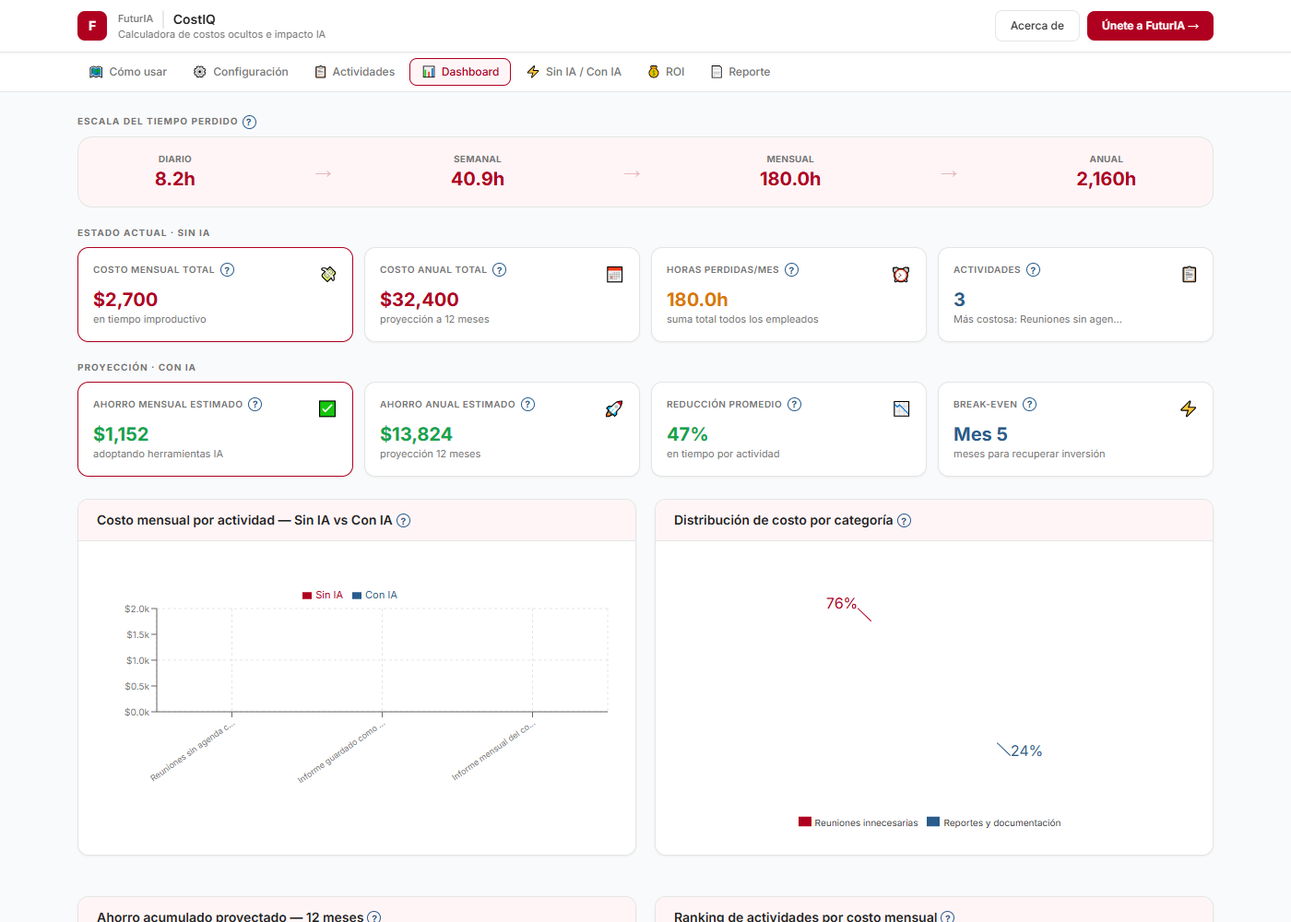
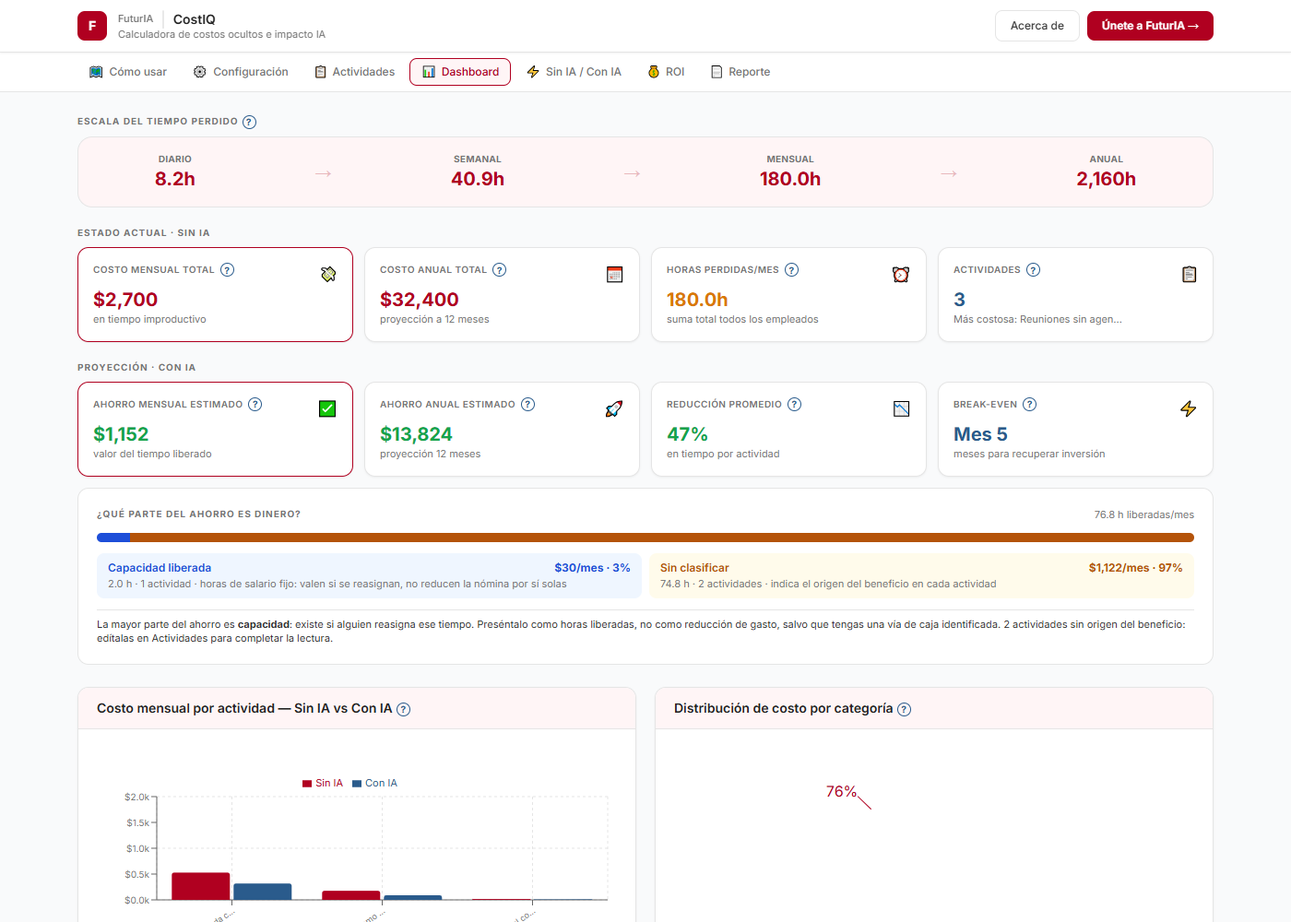
feat: separar capacidad liberada de ahorro con vía de caja
Cada actividad declara de dónde saldría el beneficio (salario fijo, horas extras,
servicio externo, contratación evitada, ventas, solo calidad) y la app clasifica
la vista: Capacidad / Caja / No monetizado. Mismo criterio que la hoja de línea
base del Módulo 2.

- Desglose '¿Qué parte del ahorro es dinero?' en Dashboard, Sin IA/Con IA y Reporte (Word)
- Conclusión ejecutiva dice cuánto es capacidad y cuánto caja; deja de hablar de
  'está perdiendo' y 'baja productividad'
- Columna Vista en la tabla, editable; CSV exporta origen, vista y horas liberadas
- Datos de ejemplo con frecuencia real y mezcla de orígenes
- Migración: actividades sin origen quedan 'Sin clasificar' con aviso
- scripts/qa-v31.mjs: desglose, conclusión y reclasificación verificados en navegador

diff --git a/src/App.jsx b/src/App.jsx
@@ -42,12 +42,14 @@ const CURRENCIES = [
 ];
 
 const SAMPLE_ACTIVITIES = [
-  { id:'s1', name:'Reuniones sin agenda clara',       category:'Reuniones innecesarias',         minutesPerDay:45, affectedEmployees:8,  automationPotential:'Medio', aiTimeReduction:40, minutesWithAI:null },
-  { id:'s2', name:'Buscar archivos y documentos',     category:'Búsqueda de información',        minutesPerDay:30, affectedEmployees:12, automationPotential:'Alto',  aiTimeReduction:70, minutesWithAI:9   },
-  { id:'s3', name:'Elaborar reportes manuales',       category:'Reportes y documentación',       minutesPerDay:60, affectedEmployees:5,  automationPotential:'Alto',  aiTimeReduction:80, minutesWithAI:null },
-  { id:'s4', name:'Responder correos repetitivos',    category:'Comunicación interna',           minutesPerDay:25, affectedEmployees:15, automationPotential:'Alto',  aiTimeReduction:60, minutesWithAI:null },
-  { id:'s5', name:'Captura de datos en formularios',  category:'Entrada de datos manual',        minutesPerDay:40, affectedEmployees:6,  automationPotential:'Alto',  aiTimeReduction:85, minutesWithAI:6   },
-  { id:'s6', name:'Revisiones y aprobaciones lentas', category:'Revisiones y aprobaciones',      minutesPerDay:20, affectedEmployees:10, automationPotential:'Medio', aiTimeReduction:50, minutesWithAI:null },
+  // Ejemplos con frecuencia real y origen del beneficio: la mayoría es capacidad
+  // (salario fijo); solo el cierre mensual con horas extras es caja. Así se ve el desglose.
+  { id:'s1', name:'Reuniones sin agenda clara',       category:'Reuniones innecesarias',         minutesPerRun:45,  timesPerMonth:22, affectedEmployees:8,  automationPotential:'Medio', aiTimeReduction:40, minutesWithAI:null, benefitSource:'salary' },
+  { id:'s2', name:'Buscar archivos y documentos',     category:'Búsqueda de información',        minutesPerRun:30,  timesPerMonth:22, affectedEmployees:12, automationPotential:'Alto',  aiTimeReduction:70, minutesWithAI:9,    benefitSource:'salary' },
+  { id:'s3', name:'Informe mensual para el comité',   category:'Reportes y documentación',       minutesPerRun:240, timesPerMonth:1,  affectedEmployees:2,  automationPotential:'Alto',  aiTimeReduction:60, minutesWithAI:95,   benefitSource:'salary' },
+  { id:'s4', name:'Responder correos repetitivos',    category:'Comunicación interna',           minutesPerRun:25,  timesPerMonth:22, affectedEmployees:15, automationPotential:'Alto',  aiTimeReduction:60, minutesWithAI:null, benefitSource:'salary' },
+  { id:'s5', name:'Cierre contable con horas extras', category:'Entrada de datos manual',        minutesPerRun:480, timesPerMonth:1,  affectedEmployees:3,  automationPotential:'Alto',  aiTimeReduction:50, minutesWithAI:null, benefitSource:'overtime' },
+  { id:'s6', name:'Acta de la reunión semanal',       category:'Reportes y documentación',       minutesPerRun:90,  timesPerMonth:4,  affectedEmployees:1,  automationPotential:'Alto',  aiTimeReduction:60, minutesWithAI:35,   benefitSource:'quality' },
 ];
 
 const SAMPLE_IDS = new Set(SAMPLE_ACTIVITIES.map(s => s.id));
@@ -214,7 +216,82 @@ function migrateAct(a, cfg) {
   const minutesPerRun = Math.max(1, +(a.minutesPerRun ?? legacyMin ?? 30));
   const timesPerMonth = Math.max(1, +(a.timesPerMonth ?? cfg.workDaysMonth));
   const { minutesPerDay, ...rest } = a;
-  return { ...rest, minutesPerRun, timesPerMonth };
+  const benefitSource = BENEFIT_SOURCES.some(b => b.key === a.benefitSource) ? a.benefitSource : 'unknown';
+  return { ...rest, minutesPerRun, timesPerMonth, benefitSource };
+}
+
+// ── Origen del beneficio (v3.1) ───────────────────────────────────────────
+// Mismo criterio que la hoja «Mi línea base» del Módulo 2: el usuario dice de
+// dónde saldría el beneficio y la app clasifica la vista. Las horas de alguien
+// con salario fijo son capacidad liberada, no caja, mientras nadie las reasigne.
+const BENEFIT_SOURCES = [
+  { key: 'unknown',   label: 'Todavía no lo sé',                   view: 'unclassified', short: 'Sin clasificar' },
+  { key: 'salary',    label: 'Horas de gente con salario fijo',    view: 'capacity',     short: 'Capacidad' },
+  { key: 'overtime',  label: 'Horas extras que dejo de pagar',     view: 'cash',         short: 'Caja' },
+  { key: 'vendor',    label: 'Servicio externo que reduzco',       view: 'cash',         short: 'Caja' },
+  { key: 'hire',      label: 'Contratación que evito',             view: 'cash',         short: 'Caja (proyectada)' },
+  { key: 'sales',     label: 'Más ventas o pedidos atendidos',     view: 'cash',         short: 'Caja (margen)' },
+  { key: 'quality',   label: 'Solo mejora de calidad o plazo',     view: 'quality',      short: 'No monetizado' },
+];
+const benefitOf = key => BENEFIT_SOURCES.find(b => b.key === key) || BENEFIT_SOURCES[0];
+const VIEW_STYLE = {
+  capacity:     { bg: '#eff6ff', fg: '#1d4ed8' },
+  cash:         { bg: '#f0fdf4', fg: '#15803d' },
+  quality:      { bg: '#f5f5f5', fg: '#525252' },
+  unclassified: { bg: '#fffbeb', fg: '#b45309' },
+};
+function ViewBadge({ source }) {
+  const b = benefitOf(source); const s = VIEW_STYLE[b.view];
+  return <span className="text-[10px] font-semibold px-1.5 py-0.5 rounded-full whitespace-nowrap" style={{ background: s.bg, color: s.fg }} title={b.label}>{b.short}</span>;
+}
+
+// Desglose del ahorro: cuánto es capacidad liberada y cuánto tiene vía de caja.
+// Es la lectura honesta del "ahorro": un comité que ve $5.000/mes y luego
+// descubre que el 90 % es tiempo de gente con salario fijo deja de creer en la cifra.
+function BenefitBreakdown({ tot, cfg, compact }) {
+  const { byView, totalSavMon, totalSavHMon } = tot;
+  if (!totalSavMon) return null;
+  const pct = v => totalSavMon ? Math.round(byView[v].sav / totalSavMon * 100) : 0;
+  const rows = [
+    { k:'capacity',     name:'Capacidad liberada',  note:'horas de salario fijo: valen si se reasignan, no reducen la nómina por sí solas' },
+    { k:'cash',         name:'Con vía de caja',     note:'gasto que deja de pagarse o ingreso adicional; pide evidencia' },
+    { k:'quality',      name:'No monetizado',       note:'mejora de calidad o plazo' },
+    { k:'unclassified', name:'Sin clasificar',      note:'indica el origen del beneficio en cada actividad' },
+  ].filter(r => byView[r.k].n > 0);
+  const mostlyCapacity = byView.capacity.sav > byView.cash.sav;
+  const unclassified = byView.unclassified.n;
+  return (
+    <div className={`bg-white border border-[#e5e5e5] rounded-xl ${compact ? 'p-4' : 'p-5'}`}>
+      <div className="flex items-center justify-between mb-3">
+        <span className="text-[10px] font-bold text-[#757575] uppercase tracking-widest">¿Qué parte del ahorro es dinero?</span>
+        <span className="text-[11px] text-[#757575]">{fmtN(totalSavHMon)} h liberadas/mes</span>
+      </div>
+      <div className="h-2.5 rounded-full overflow-hidden flex bg-[#f5f5f5] mb-3">
+        {['cash','capacity','quality','unclassified'].map(k => byView[k].sav > 0 && (
+          <div key={k} style={{ width: `${pct(k)}%`, background: VIEW_STYLE[k].fg }} title={`${benefitOf(k==='cash'?'overtime':k==='capacity'?'salary':k==='quality'?'quality':'unknown').short}: ${pct(k)}%`} />
+        ))}
+      </div>
+      <div className="grid grid-cols-1 sm:grid-cols-2 gap-2 text-xs">
+        {rows.map(r => (
+          <div key={r.k} className="flex items-start gap-2 rounded-lg px-3 py-2" style={{ background: VIEW_STYLE[r.k].bg }}>
+            <div className="flex-1 min-w-0">
+              <div className="flex items-baseline justify-between gap-2">
+                <span className="font-semibold" style={{ color: VIEW_STYLE[r.k].fg }}>{r.name}</span>
+                <span className="font-bold whitespace-nowrap" style={{ color: VIEW_STYLE[r.k].fg }}>{fmt(byView[r.k].sav, cfg.currency, 0)}/mes · {pct(r.k)}%</span>
+              </div>
+              {!compact && <div className="text-[11px] text-[#757575] leading-snug mt-0.5">{fmtN(byView[r.k].h)} h · {byView[r.k].n} actividad{byView[r.k].n !== 1 ? 'es' : ''} · {r.note}</div>}
+            </div>
+          </div>
+        ))}
+      </div>
+      {(mostlyCapacity || unclassified > 0) && (
+        <p className="text-[11px] text-[#333] leading-snug mt-3 border-t border-[#e5e5e5] pt-2">
+          {mostlyCapacity && <>La mayor parte del ahorro es <b>capacidad</b>: existe si alguien reasigna ese tiempo. Preséntalo como horas liberadas, no como reducción de gasto, salvo que tengas una vía de caja identificada. </>}
+          {unclassified > 0 && <>{unclassified} actividad{unclassified !== 1 ? 'es' : ''} sin origen del beneficio: edítala{unclassified !== 1 ? 's' : ''} en Actividades para completar la lectura.</>}
+        </p>
+      )}
+    </div>
+  );
 }
 
 // ─── SMALL UI PRIMITIVES ─────────────────────────────────────────────────────
@@ -370,7 +447,7 @@ export default function App() {
   const [selectedLib, setSelectedLib] = useState({});
   const [libFilter, setLibFilter] = useState('Todas');
 
-  const blankAct = { name:'', category:CATEGORIES[0], minutesPerRun:30, timesPerMonth:cfg.workDaysMonth, affectedEmployees:cfg.globalEmployees, automationPotential:'Medio', aiTimeReduction:50, minutesWithAI:null };
+  const blankAct = { name:'', category:CATEGORIES[0], minutesPerRun:30, timesPerMonth:cfg.workDaysMonth, affectedEmployees:cfg.globalEmployees, automationPotential:'Medio', aiTimeReduction:50, minutesWithAI:null, benefitSource:'salary' };
   const [draft, setDraft] = useState(blankAct);
   // Preset de frecuencia del formulario "Nueva actividad"; el dato persistido es draft.timesPerMonth
   const [freq, setFreq] = useState('daily');
@@ -403,7 +480,9 @@ export default function App() {
     const aiCostMon = aiHMon * a.affectedEmployees * cfg.hourlyCost;
     const savMon  = costMon - aiCostMon;
     const savYear = savMon * 12;
-    return { ...a, hDay, hWeek, hMon, hYear, costMon, costYear, aiHMon, aiCostMon, savMon, savYear, isMeasured, effectiveReduction };
+    const savHMon = hMon * (1 - aiRatio) * a.affectedEmployees;   // horas liberadas al mes, todas las personas
+    const view    = benefitOf(a.benefitSource).view;
+    return { ...a, hDay, hWeek, hMon, hYear, costMon, costYear, aiHMon, aiCostMon, savMon, savYear, savHMon, view, isMeasured, effectiveReduction };
   }), [acts, cfg]);
 
   const tot = useMemo(() => {
@@ -414,11 +493,29 @@ export default function App() {
     const totalCostYr  = totalCostMon * 12;
     const totalSavMon  = metrics.reduce((s, m) => s + m.savMon, 0);
     const totalSavYr   = totalSavMon * 12;
+    // Desglose del ahorro por vista: cuánto es capacidad liberada y cuánto tiene vía de caja
+    const byView = { capacity:{ sav:0, h:0, n:0 }, cash:{ sav:0, h:0, n:0 }, quality:{ sav:0, h:0, n:0 }, unclassified:{ sav:0, h:0, n:0 } };
+    for (const m of metrics) { const v = byView[m.view]; v.sav += m.savMon; v.h += m.savHMon; v.n += 1; }
+    const totalSavHMon = metrics.reduce((s, m) => s + m.savHMon, 0);
     const avgRed       = metrics.length ? metrics.reduce((s, m) => s + m.aiTimeReduction, 0) / metrics.length : 0;
     const topCost      = metrics.length ? [...metrics].sort((a,b) => b.costMon - a.costMon)[0] : null;
     const topSav       = metrics.length ? [...metrics].sort((a,b) => b.savMon  - a.savMon)[0]  : null;
-    return { totalHDay, totalHWeek, totalHMon, totalCostMon, totalCostYr, totalSavMon, totalSavYr, avgRed, topCost, topSav };
+    return { totalHDay, totalHWeek, totalHMon, totalCostMon, totalCostYr, totalSavMon, totalSavYr, totalSavHMon, byView, avgRed, topCost, topSav };
   }, [metrics]);
+
+  // Frase de desglose para la conclusión ejecutiva (pantalla y Word): dice qué parte
+  // del ahorro es capacidad y qué parte caja, para que la cifra resista preguntas.
+  const breakdownSentence = useMemo(() => {
+    const { byView, totalSavYr, totalSavHMon } = tot;
+    if (!totalSavYr) return '';
+    const cashYr = byView.cash.sav * 12, capYr = byView.capacity.sav * 12;
+    const parts = [];
+    if (capYr > 0) parts.push(`${fmt(capYr, cfg.currency)} corresponden a capacidad liberada (${fmtN(byView.capacity.h)} h/mes de personal con salario fijo), que vale si ese tiempo se reasigna y no reduce la nómina por sí sola`);
+    if (cashYr > 0) parts.push(`${fmt(cashYr, cfg.currency)} tienen una vía de caja identificada (horas extras, servicios externos, contratación evitada o ventas) y requieren evidencia`);
+    if (byView.quality.n > 0) parts.push(`${byView.quality.n} actividad${byView.quality.n !== 1 ? 'es' : ''} aporta${byView.quality.n !== 1 ? 'n' : ''} mejora de calidad o plazo sin valor monetizado`);
+    if (byView.unclassified.n > 0) parts.push(`${byView.unclassified.n} actividad${byView.unclassified.n !== 1 ? 'es' : ''} sin origen del beneficio definido`);
+    return parts.length ? `De ese valor, ${parts.join('; ')}.` : '';
+  }, [tot, cfg.currency]);
 
   const roiCalc = useMemo(() => {
     const monthlySav   = tot.totalSavMon * (roi.adoptionRate / 100);
@@ -496,7 +593,7 @@ export default function App() {
 
   // ── Export ────────────────────────────────────────────────────────────────
   const exportCSV = () => {
-    const hdr = ['Actividad','Categoría','Min por ejecución','Veces al mes','Min con IA (medido)','Empleados','Horas/mes (total)','Costo mensual','Costo anual','Costo mensual con IA','Ahorro mensual','Ahorro anual','% Reducción efectiva','Origen reducción','Potencial IA'];
+    const hdr = ['Actividad','Categoría','Min por ejecución','Veces al mes','Min con IA (medido)','Empleados','Horas/mes (total)','Costo mensual','Costo anual','Costo mensual con IA','Ahorro mensual','Ahorro anual','Horas liberadas/mes','Origen del beneficio','Vista','% Reducción efectiva','Origen reducción','Potencial IA'];
     const rows = metrics.map(m => [
       `"${m.name}"`, `"${m.category}"`, m.minutesPerRun, m.timesPerMonth,
       m.minutesWithAI != null ? m.minutesWithAI : '',
@@ -504,6 +601,7 @@ export default function App() {
       (m.hMon * m.affectedEmployees).toFixed(1),
       m.costMon.toFixed(2), m.costYear.toFixed(2),
       m.aiCostMon.toFixed(2), m.savMon.toFixed(2), m.savYear.toFixed(2),
+      m.savHMon.toFixed(1), `"${benefitOf(m.benefitSource).label}"`, benefitOf(m.benefitSource).short,
       m.effectiveReduction, m.isMeasured ? 'Medido' : 'Estimado',
       m.automationPotential,
     ]);
@@ -566,6 +664,7 @@ export default function App() {
           automationPotential: ['Alto','Medio','Bajo'].includes(a.automationPotential) ? a.automationPotential : 'Medio',
           aiTimeReduction: Math.min(100, Math.max(0, parseInt(a.aiTimeReduction) || 50)),
           minutesWithAI: (a.minutesWithAI != null && a.minutesWithAI !== '' && !isNaN(+a.minutesWithAI)) ? +a.minutesWithAI : null,
+          benefitSource: m.benefitSource,
         };
       });
       setCfg(c => ({ ...c, ...st.cfg }));
@@ -597,7 +696,28 @@ export default function App() {
         <td style="border:1px solid #e5e5e5;padding:6px 8px;text-align:right;color:#2A5B8C;">${esc(fmt(m.aiCostMon, cfg.currency))}</td>
         <td style="border:1px solid #e5e5e5;padding:6px 8px;text-align:right;color:#16a34a;font-weight:bold;">${esc(fmt(m.savMon, cfg.currency))}</td>
         <td style="border:1px solid #e5e5e5;padding:6px 8px;text-align:center;color:#16a34a;">-${m.effectiveReduction}%${m.isMeasured ? ' ✓' : ''}</td>
+        <td style="border:1px solid #e5e5e5;padding:6px 8px;text-align:center;font-size:8pt;color:${VIEW_STYLE[m.view].fg};">${esc(benefitOf(m.benefitSource).short)}</td>
       </tr>`).join('');
+
+    const bv = tot.byView;
+    const viewRow = (name, v, note) => bv[v].n ? `<tr><td style="border:1px solid #e5e5e5;padding:6px 8px;color:${VIEW_STYLE[v].fg};font-weight:bold;">${name}</td><td style="border:1px solid #e5e5e5;padding:6px 8px;text-align:right;">${esc(fmt(bv[v].sav, cfg.currency))}/mes</td><td style="border:1px solid #e5e5e5;padding:6px 8px;text-align:right;">${fmtN(bv[v].h)} h</td><td style="border:1px solid #e5e5e5;padding:6px 8px;text-align:center;">${bv[v].n}</td><td style="border:1px solid #e5e5e5;padding:6px 8px;font-size:8pt;color:#757575;">${note}</td></tr>` : '';
+    const breakdownTable = tot.totalSavMon ? `
+  <h3 style="color:#b00020;border-bottom:2px solid #b00020;padding-bottom:4px;">¿Qué parte del ahorro es dinero?</h3>
+  <table style="width:100%;border-collapse:collapse;font-size:10pt;margin-bottom:20px;">
+    <thead><tr style="background:#fff5f6;">
+      <th style="border:1px solid #e5e5e5;padding:6px 8px;text-align:left;">Vista</th>
+      <th style="border:1px solid #e5e5e5;padding:6px 8px;text-align:right;">Valor/mes</th>
+      <th style="border:1px solid #e5e5e5;padding:6px 8px;text-align:right;">Horas/mes</th>
+      <th style="border:1px solid #e5e5e5;padding:6px 8px;text-align:center;">Activ.</th>
+      <th style="border:1px solid #e5e5e5;padding:6px 8px;text-align:left;">Cómo presentarlo</th>
+    </tr></thead>
+    <tbody>
+      ${viewRow('Capacidad liberada', 'capacity', 'Horas de personal con salario fijo. Vale si se reasigna; no reduce la nómina por sí sola.')}
+      ${viewRow('Con vía de caja', 'cash', 'Gasto que deja de pagarse o ingreso adicional. Requiere evidencia (planilla, factura, registro de ventas).')}
+      ${viewRow('No monetizado', 'quality', 'Mejora de calidad o plazo. Se reporta como indicador, no como dinero.')}
+      ${viewRow('Sin clasificar', 'unclassified', 'Falta indicar el origen del beneficio.')}
+    </tbody>
+  </table>` : '';
 
     const conclusion = roiCalc.breakEven
       ? `La inversión en IA estimada se recuperaría en aproximadamente <b>${roiCalc.breakEven} meses</b>, generando un ROI del <b>${fmtN(roiCalc.roi12, 0)}%</b> a los 12 meses.`
@@ -643,6 +763,7 @@ export default function App() {
       <th style="border:1px solid #e5e5e5;padding:6px 8px;text-align:right;">Con IA/mes</th>
       <th style="border:1px solid #e5e5e5;padding:6px 8px;text-align:right;">Ahorro/mes</th>
       <th style="border:1px solid #e5e5e5;padding:6px 8px;text-align:center;">Reducción</th>
+      <th style="border:1px solid #e5e5e5;padding:6px 8px;text-align:center;">Vista</th>
     </tr></thead>
     <tbody>${actRows}
       <tr style="background:#fff5f6;font-weight:bold;">
@@ -651,12 +772,14 @@ export default function App() {
         <td style="border:1px solid #e5e5e5;padding:6px 8px;text-align:right;color:#2A5B8C;">${esc(fmt(tot.totalCostMon - tot.totalSavMon, cfg.currency))}</td>
         <td style="border:1px solid #e5e5e5;padding:6px 8px;text-align:right;color:#16a34a;">${esc(fmt(tot.totalSavMon, cfg.currency))}</td>
         <td style="border:1px solid #e5e5e5;padding:6px 8px;text-align:center;color:#16a34a;">-${fmtN(tot.avgRed, 0)}%</td>
+        <td style="border:1px solid #e5e5e5;padding:6px 8px;"></td>
       </tr>
     </tbody>
   </table>
+  ${breakdownTable}
 
   <h3 style="color:#b00020;border-bottom:2px solid #b00020;padding-bottom:4px;">Conclusión ejecutiva</h3>
-  <p style="line-height:1.5;"><b>${esc(cfg.companyName)}</b> está perdiendo <b>${esc(fmt(tot.totalCostYr, cfg.currency))} anuales</b> en ${acts.length} actividad${acts.length !== 1 ? 'es' : ''} de baja productividad identificadas. Con la adopción de herramientas de inteligencia artificial, se estima un ahorro potencial de <b>${esc(fmt(tot.totalSavYr, cfg.currency))} por año</b> (${fmtN(tot.avgRed, 0)}% de reducción promedio en tiempo). ${conclusion}</p>
+  <p style="line-height:1.5;"><b>${esc(cfg.companyName)}</b> dedica hoy <b>${esc(fmt(tot.totalCostYr, cfg.currency))} anuales</b> (${fmtN(tot.totalHMon)} h/mes) a ${acts.length} actividad${acts.length !== 1 ? 'es' : ''} registradas. Con IA, el tiempo liberado vale <b>${esc(fmt(tot.totalSavYr, cfg.currency))} por año</b> (${fmtN(tot.totalSavHMon)} h/mes, ${fmtN(tot.avgRed, 0)}% de reducción promedio). ${esc(breakdownSentence)} ${conclusion}</p>
   ${tot.topCost ? `<p style="font-size:9pt;color:#757575;">La actividad de mayor costo es <b>"${esc(tot.topCost.name)}"</b> con un impacto de <b>${esc(fmt(tot.topCost.costMon, cfg.currency))}/mes</b> (${esc(fmt(tot.topCost.costYear, cfg.currency))}/año).</p>` : ''}
   <p style="font-size:8pt;color:#b00020;margin-top:14px;">* Los cálculos son estimaciones basadas en los datos ingresados. Los resultados reales dependerán de la herramienta seleccionada, la tasa de adopción del equipo y la calidad de implementación.</p>
   <p style="font-size:8pt;color:#757575;border-top:1px solid #e5e5e5;padding-top:8px;margin-top:18px;">Generado con CostIQ — una herramienta de FuturIA · futuria.substack.com</p>
@@ -980,6 +1103,7 @@ export default function App() {
                   { term: 'Inversión inicial única', def: 'Gastos que solo ocurren una vez: licencias perpetuas, consultoría de implementación, configuración inicial, capacitación del equipo.' },
                   { term: 'Costo mensual recurrente', def: 'Suscripciones mensuales a herramientas IA: ChatGPT Plus ($20/usuario), Microsoft 365 Copilot ($30/usuario), Zapier, Make, etc.' },
                   { term: 'Min. con IA (medido)', def: 'Tiempo real que toma una ejecución de la actividad cuando ya se usa IA, incluida la revisión. Si lo ingresas, el % de ahorro se calcula desde ese dato real (más preciso). Si no, se usa el estimado del slider.' },
+                  { term: 'Capacidad vs. caja', def: 'No toda hora ahorrada es dinero. Las horas de personal con salario fijo son capacidad liberada: valen si alguien las reasigna, pero no reducen la nómina. Solo hay caja cuando dejas de pagar algo (horas extras, un proveedor, una contratación) o vendes más, y eso pide evidencia. CostIQ separa ambas en el Dashboard y en el Reporte.' },
                   { term: 'Reducción medida vs estimada', def: 'Medida (✓): calculada desde el tiempo real observado con IA. Estimada: basada en el porcentaje manual del slider. El badge verde oscuro con ✓ indica dato medido.' },
                 ].map(g => (
                   <div key={g.term} className="bg-gray-50 rounded-lg p-3">
@@ -1077,8 +1201,8 @@ export default function App() {
               <div className="mb-6">
                 <p className="text-[10px] font-bold text-[#757575] uppercase tracking-widest mb-2">Proyección · Con IA</p>
                 <div className="grid grid-cols-2 sm:grid-cols-4 gap-3">
-                  <KPI label="Ahorro mensual estimado" value={fmt(tot.totalSavMon, cfg.currency)}  sub={`adoptando herramientas IA`}     color={C.green} icon="✅" highlight
-                    help="Cuánto dejarías de perder cada mes al aplicar IA a las actividades registradas. Es la diferencia entre el costo actual y el costo proyectado con IA. Depende del % de reducción estimado en cada actividad." />
+                  <KPI label="Ahorro mensual estimado" value={fmt(tot.totalSavMon, cfg.currency)}  sub={tot.byView.cash.sav > 0 ? `${fmt(tot.byView.cash.sav, cfg.currency, 0)} con vía de caja` : 'valor del tiempo liberado'}     color={C.green} icon="✅" highlight
+                    help="Valor del tiempo que se liberaría al aplicar IA, a la tarifa de costo/hora. No todo es dinero: la parte que corresponde a gente con salario fijo es capacidad (vale si se reasigna). El desglose de abajo separa capacidad de caja." />
                   <KPI label="Ahorro anual estimado"   value={fmt(tot.totalSavYr, cfg.currency)}   sub="proyección 12 meses"             color={C.green} icon="🚀"
                     help="El ahorro mensual proyectado multiplicado por 12. Representa el valor total que generaría la adopción de IA en un año completo, sin contar el costo de las herramientas." />
                   <KPI label="Reducción promedio"      value={`${fmtN(tot.avgRed, 0)}%`}           sub="en tiempo por actividad"         color={C.green} icon="📉"
@@ -1086,6 +1210,7 @@ export default function App() {
                   <KPI label="Break-even"              value={roiCalc.breakEven ? `Mes ${roiCalc.breakEven}` : 'N/A'} sub="meses para recuperar inversión" color={roiCalc.breakEven ? C.blue : '#757575'} icon="⚡"
                     help="El mes en que los ahorros acumulados superan la inversión total en IA. Antes de ese mes, la empresa va en pérdida neta. A partir de ahí, cada mes genera valor positivo. Configura los costos de inversión en la pestaña ROI." />
                 </div>
+                <div className="mt-3"><BenefitBreakdown tot={tot} cfg={cfg} /></div>
               </div>
             )}
 
@@ -1241,6 +1366,11 @@ export default function App() {
                   <Fld label="Min. con IA por ejecución (opcional)" help="Si ya mediste cuánto tarda esta actividad cuando se usa IA — incluyendo revisar y corregir — ingrésalo aquí. El % de ahorro se calculará desde datos reales, más preciso que la estimación. Déjalo vacío si aún no has medido.">
                     <input type="number" min="0" placeholder="Ej: 9 (opcional)" className={inp} value={draft.minutesWithAI ?? ''} onChange={e => setDraft(p => ({ ...p, minutesWithAI: e.target.value === '' ? null : +e.target.value }))} />
                   </Fld>
+                  <Fld label="¿De dónde saldría el beneficio?" help="No toda hora ahorrada es dinero. Si quien hace la actividad tiene salario fijo, el tiempo liberado es capacidad: vale si alguien lo reasigna, pero no reduce la nómina por sí solo. Solo hay caja cuando dejas de pagar algo (horas extras, un proveedor, una contratación) o vendes más.">
+                    <select className={inp} value={draft.benefitSource} onChange={e => setDraft(p => ({ ...p, benefitSource: e.target.value }))}>
+                      {BENEFIT_SOURCES.map(b => <option key={b.key} value={b.key}>{b.label}</option>)}
+                    </select>
+                  </Fld>
                 </div>
                 {/* Preview calc */}
                 {draft.name && draft.minutesPerRun > 0 && draft.timesPerMonth > 0 && draft.affectedEmployees > 0 && (
@@ -1299,6 +1429,10 @@ export default function App() {
                           Potencial IA
                           <HelpTip text="¿Qué tan fácil es automatizar esta actividad con IA hoy? Alto = herramientas disponibles y listas, Medio = requiere configuración, Bajo = automatización parcial." />
                         </th>
+                        <th className="text-center px-3 py-3 font-semibold text-[#333] text-xs hidden lg:table-cell">
+                          Vista
+                          <HelpTip text="Qué tipo de valor produce el ahorro. Capacidad: horas de salario fijo que quedan libres (no es caja hasta que se reasignan). Caja: un gasto que deja de pagarse o un ingreso adicional, con evidencia. No monetizado: mejora de calidad o plazo sin valor en dinero." />
+                        </th>
                         <th className="text-center px-3 py-3 font-semibold text-[#333] text-xs">
                           % Ahorro con IA
                           <HelpTip text="Porcentaje del tiempo que se estima reducir al aplicar IA a esta actividad. Por ejemplo, 70% significa que una tarea que toma 30 min pasaría a tomar ~9 min." />
@@ -1345,6 +1479,14 @@ export default function App() {
                           <td className="px-3 py-3 text-right font-bold text-[#b00020] text-xs">{fmt(m.costMon, cfg.currency)}</td>
                           <td className="px-3 py-3 text-right text-xs text-[#757575] hidden sm:table-cell">{fmt(m.costYear, cfg.currency)}</td>
                           <td className="px-3 py-3 text-center"><PotBadge v={m.automationPotential} /></td>
+                          <td className="px-3 py-3 text-center hidden lg:table-cell">
+                            {editing === m.id
+                              ? <select className={inp + ' py-1 text-[11px]'} value={m.benefitSource} onChange={e => updAct(m.id, 'benefitSource', e.target.value)}>
+                                  {BENEFIT_SOURCES.map(b => <option key={b.key} value={b.key}>{b.label}</option>)}
+                                </select>
+                              : <ViewBadge source={m.benefitSource} />
+                            }
+                          </td>
                           <td className="px-3 py-3 text-center">
                             {editing === m.id
                               ? <input type="number" min="0" max="100" className={inp + ' py-1 w-16 text-xs text-center'} value={m.aiTimeReduction} onChange={e => updAct(m.id, 'aiTimeReduction', +e.target.value)} />
@@ -1410,9 +1552,10 @@ export default function App() {
                   <div className="bg-[#f0fdf4] border-2 border-[#16a34a] rounded-xl p-5 text-center">
                     <div className="text-[10px] text-[#757575] font-bold uppercase tracking-widest mb-1">AHORRO POTENCIAL</div>
                     <div className="text-3xl font-black text-[#16a34a]">{fmt(tot.totalSavMon, cfg.currency)}/mes</div>
-                    <div className="text-xs text-[#757575] mt-1">{fmt(tot.totalSavYr, cfg.currency)}/año · -{fmtN(tot.avgRed,0)}% prom.</div>
+                    <div className="text-xs text-[#757575] mt-1">{fmt(tot.totalSavYr, cfg.currency)}/año · {fmtN(tot.totalSavHMon)} h liberadas/mes</div>
                   </div>
                 </div>
+                <div className="mb-6"><BenefitBreakdown tot={tot} cfg={cfg} compact /></div>
 
                 {/* Horizontal bar chart */}
                 <Card title="Comparación por actividad (costo mensual)" help="Barras paralelas para cada actividad: rojo = costo actual (Sin IA), azul = costo proyectado (Con IA). La diferencia entre ambas barras es el ahorro potencial mensual de esa actividad.">
@@ -1854,10 +1997,11 @@ export default function App() {
               <div className="bg-[#fff5f6] border border-[#b00020] rounded-xl p-5">
                 <p className="font-bold text-[#b00020] mb-2">Conclusión ejecutiva</p>
                 <p className="text-sm text-[#333] leading-relaxed">
-                  <strong>{cfg.companyName}</strong> está perdiendo{' '}
-                  <strong>{fmt(tot.totalCostYr, cfg.currency)} anuales</strong> en {acts.length} actividad{acts.length !== 1 ? 'es' : ''}{' '}
-                  de baja productividad identificadas. Con la adopción de herramientas de inteligencia artificial, se estima un ahorro potencial de{' '}
-                  <strong>{fmt(tot.totalSavYr, cfg.currency)} por año</strong> ({fmtN(tot.avgRed, 0)}% de reducción promedio en tiempo).{' '}
+                  <strong>{cfg.companyName}</strong> dedica hoy{' '}
+                  <strong>{fmt(tot.totalCostYr, cfg.currency)} anuales</strong> ({fmtN(tot.totalHMon)} h/mes) a {acts.length} actividad{acts.length !== 1 ? 'es' : ''}{' '}
+                  registradas. Con IA, el tiempo liberado vale{' '}
+                  <strong>{fmt(tot.totalSavYr, cfg.currency)} por año</strong> ({fmtN(tot.totalSavHMon)} h/mes, {fmtN(tot.avgRed, 0)}% de reducción promedio).{' '}
+                  {breakdownSentence}{' '}
                   {roiCalc.breakEven
                     ? `La inversión en IA estimada se recuperaría en aproximadamente ${roiCalc.breakEven} meses, generando un ROI del ${fmtN(roiCalc.roi12, 0)}% a los 12 meses.`
                     : 'Ajusta los parámetros de inversión en la pestaña ROI para calcular el período de retorno.'}
